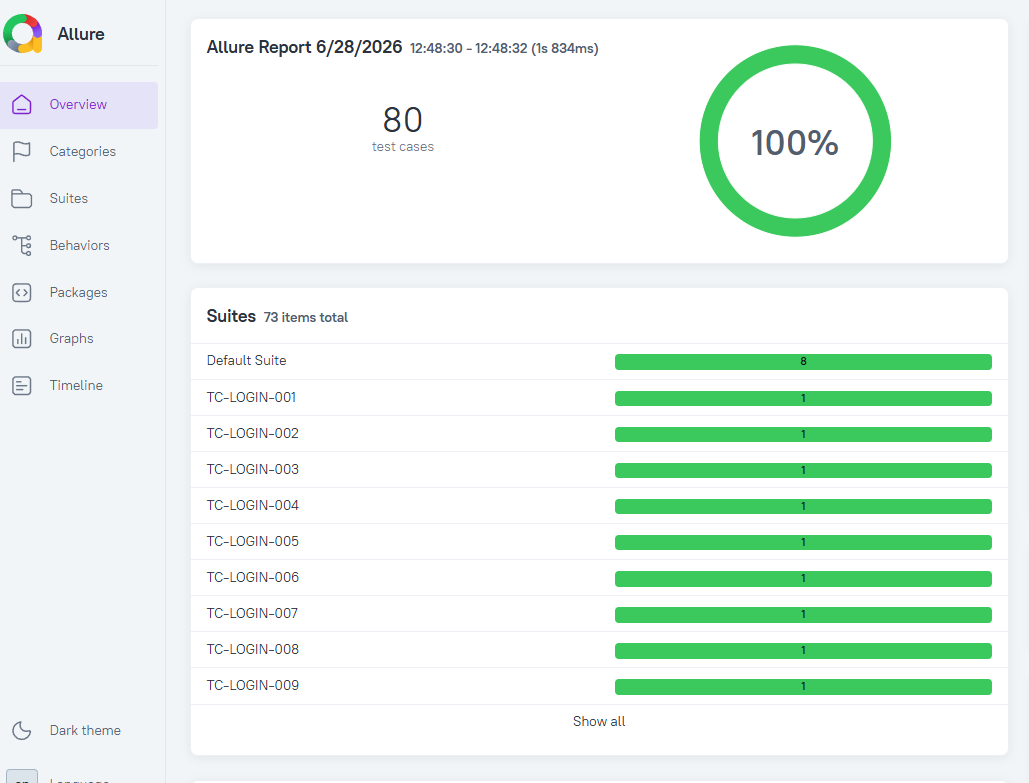
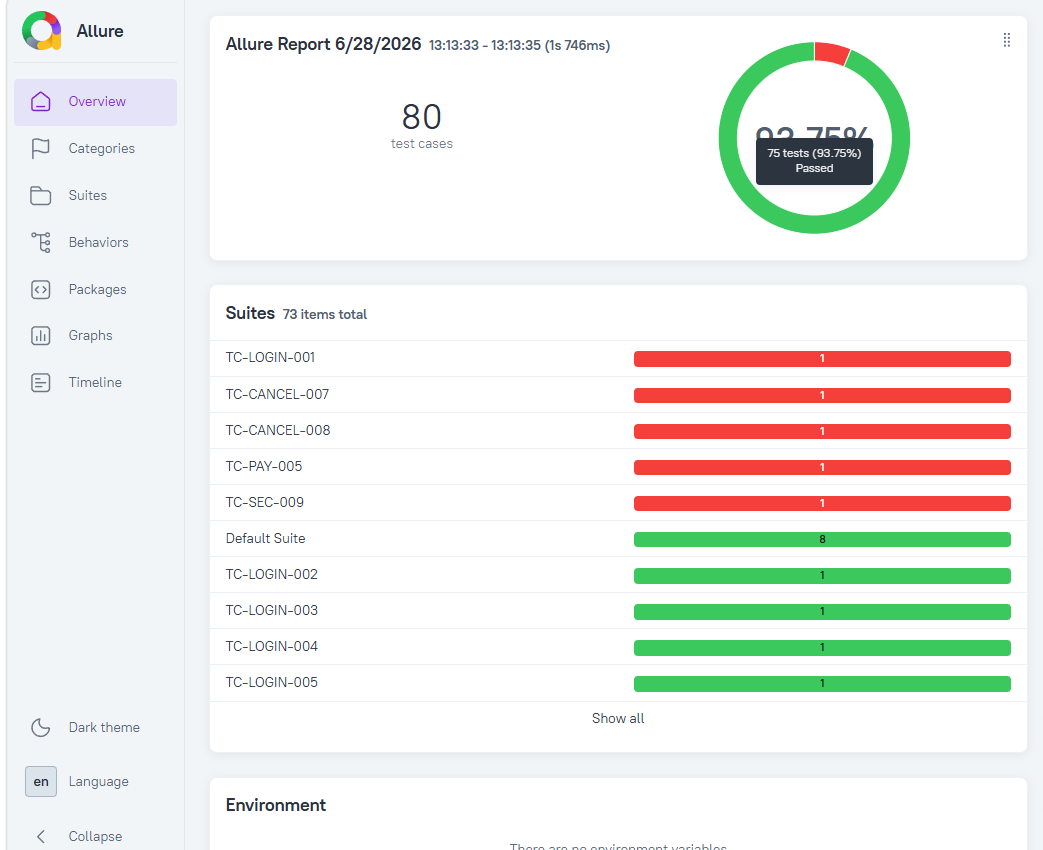
docs: 更新项目截图，区分 JWT 绕过与幂等性漏洞

diff --git a/README.md b/README.md
@@ -272,17 +272,23 @@ docker run -d -p 3000:3000 order-api
 
 ## 项目截图
 
-### Newman 测试失败 — 发现安全漏洞
+### Newman 测试失败 — 发现 JWT 认证绕过
 
-![Newman 失败截图](./docs/images/newman-fail.png)
+![Newman JWT 失败](./docs/images/newman-fail-jwt.png)
 
-安全测试模块发现 JWT None 算法绕过、越权访问、幂等性缺失等漏洞，共 90 条断言失败。
+安全测试模块发现 JWT None 算法绕过漏洞，攻击者可伪造任意用户 Token 调用订单创建接口。
+
+### Newman 测试失败 — 幂等性缺失
+
+![Newman 支付失败](./docs/images/newman-fail-payment.png)
+
+订单/支付模块发现状态机缺陷：已发货订单可被取消、重复支付覆盖交易记录、已取消订单可再次取消。
 
 ### Newman 测试全绿 — 漏洞修复后回归
 
 ![Newman 全绿截图](./docs/images/newman-pass.png)
 
-5 个漏洞修复后，全部 6 模块 135 条断言 PASS。
+5 个漏洞修复后，全部 6 模块断言全部 PASS。
 
 ### Allure 全绿报告
 